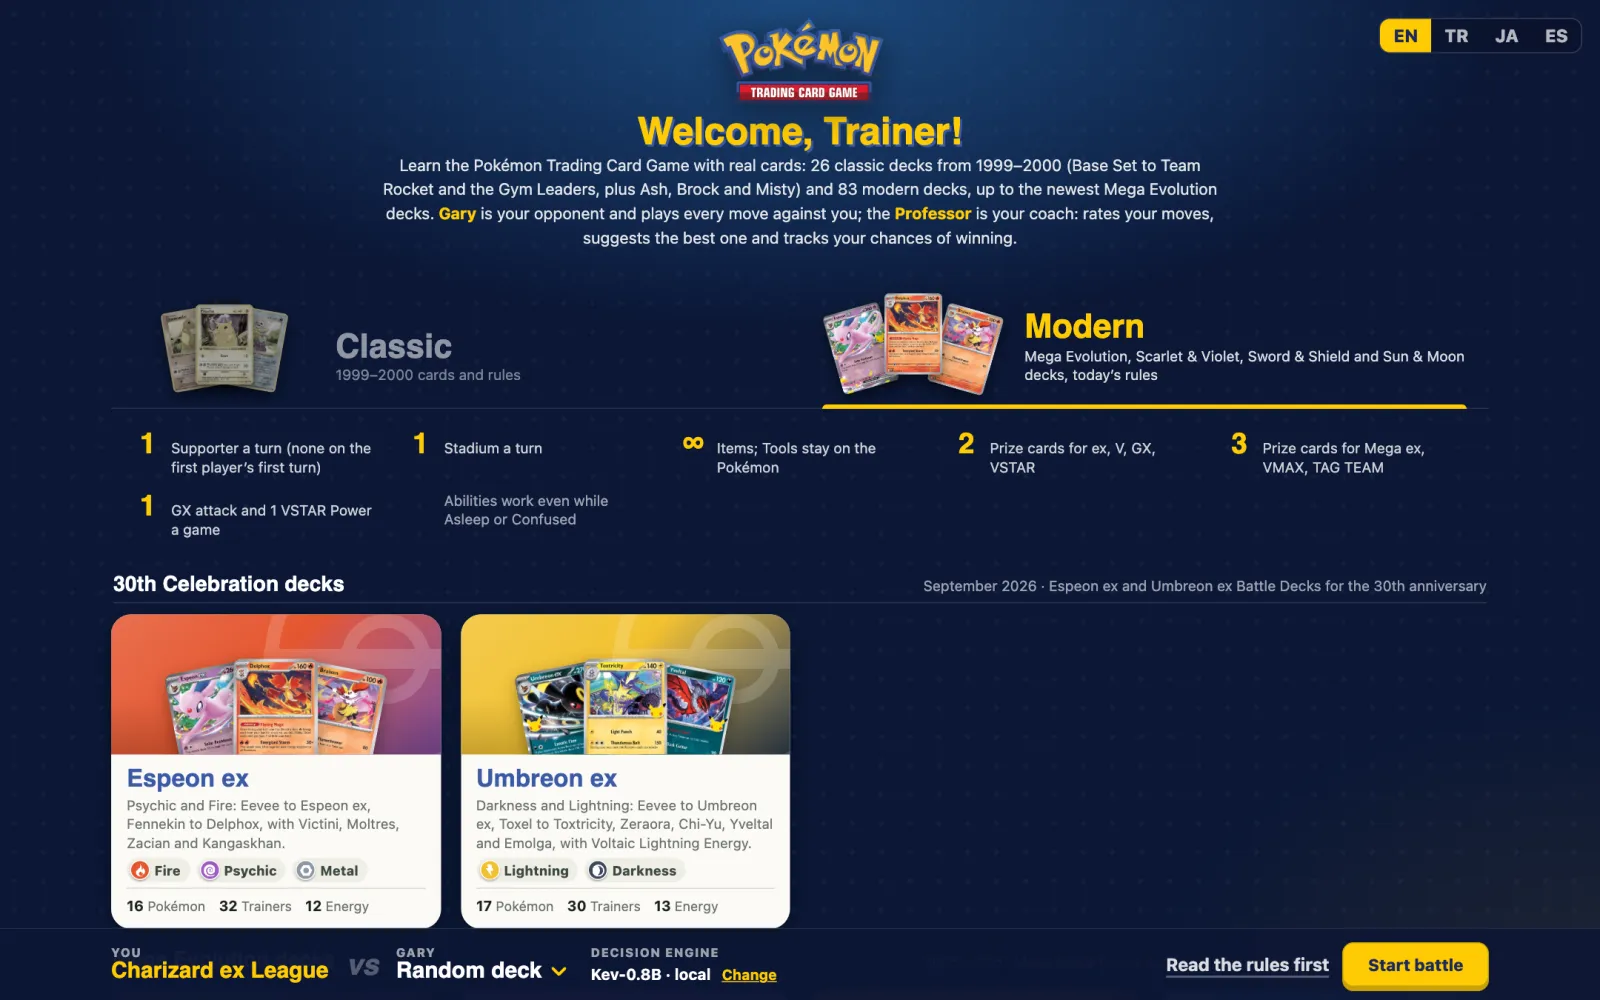
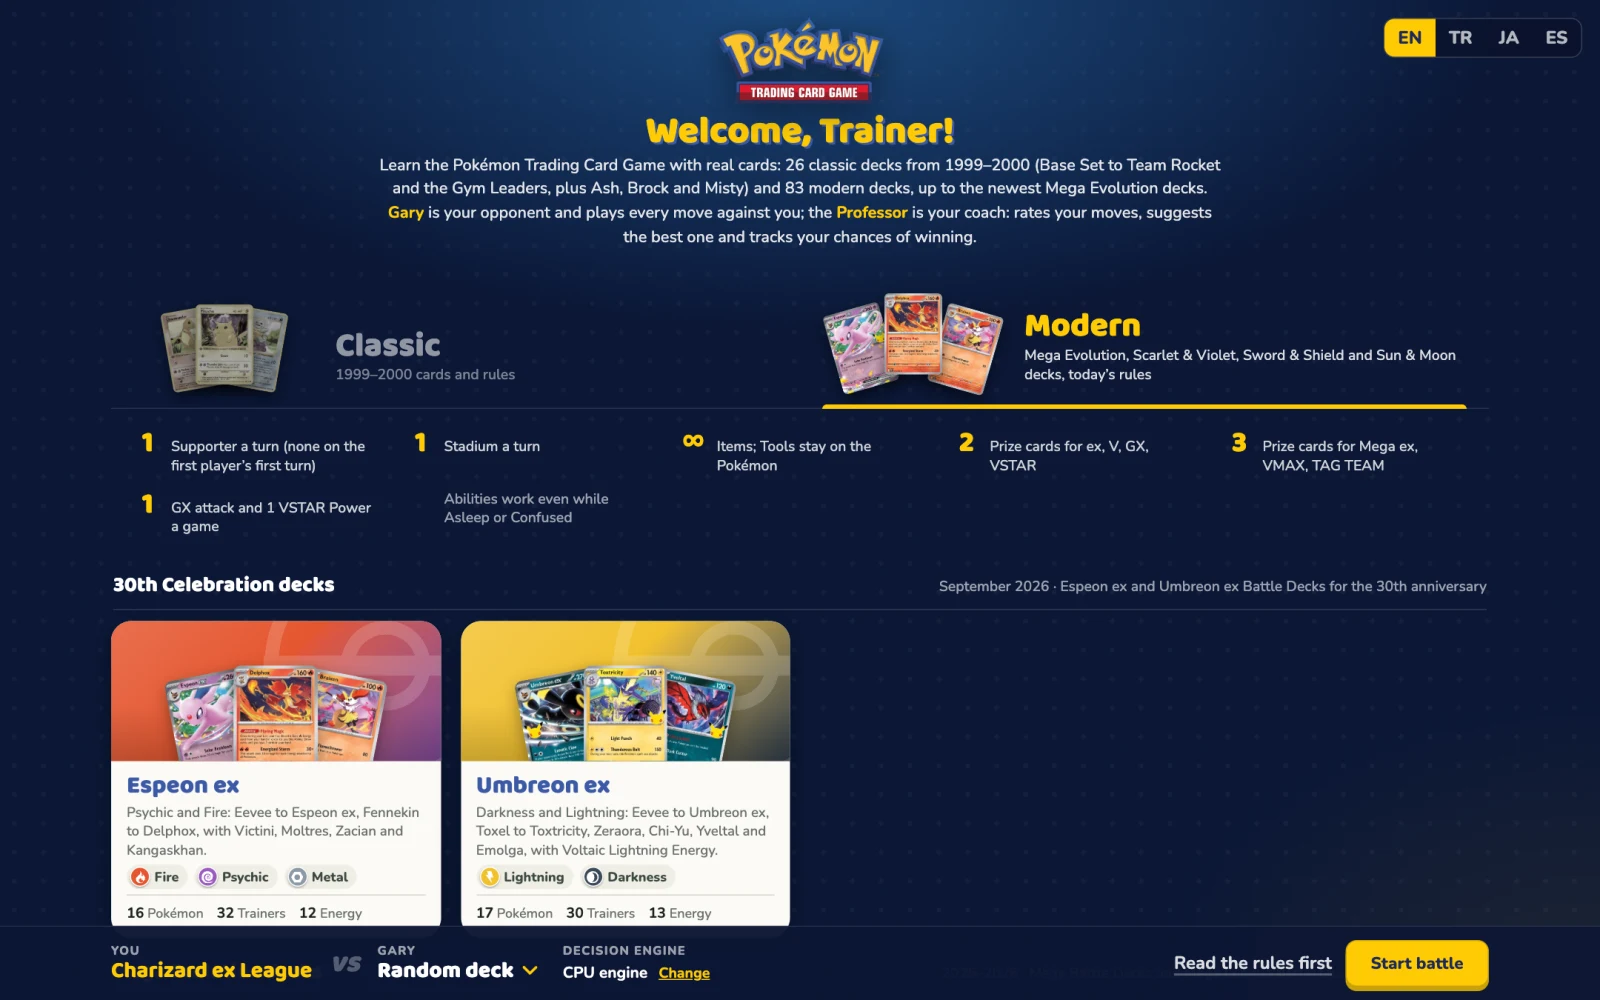
Fix fonts in the web version; clean outlined text; retake README screenshots
- server.js read every file without a known type as UTF-8 text, so the vendored .woff2 fonts arrived corrupted
  and browsers fell back to system fonts. Static files are now sent as raw bytes with their types.
- Outlined Baloo 2 text (attack names, damage numbers, stamps) showed lines inside the letters ("Be!!ow"):
  the stroke is now painted under the fill, at twice the width.
- New README screenshots with the game's fonts, each checked by an independent review; alt texts match them.

diff --git a/public/style.css b/public/style.css
@@ -352,10 +352,13 @@ aside { min-height: 0; display: flex; flex-direction: column; gap: 8px; }
 .arena-title { position: fixed; left: 50%; top: 9%; transform: translate(-50%, -20px) scale(.8); opacity: 0; transition: all .3s cubic-bezier(.3,.7,.4,1.3); background: var(--c); color: #fff; font-family: "Baloo 2", sans-serif; font-weight: 800; font-size: 30px; padding: 4px 22px; border-radius: 99px; border: 3px solid #fff; box-shadow: 0 6px 18px rgba(0,0,0,.45); text-shadow: 0 2px 2px rgba(0,0,0,.35); white-space: nowrap; }
 .arena-title.show { transform: translate(-50%, 0) scale(1); opacity: 1; }
 .burst { position: fixed; z-index: 31; width: 160px; height: 160px; border-radius: 50%; pointer-events: none; background: radial-gradient(circle, #fff 0 12%, var(--c) 30%, transparent 68%); }
-.float-dmg { position: fixed; z-index: 33; pointer-events: none; font-family: "Baloo 2", sans-serif; font-weight: 800; font-size: 46px; color: #fff; -webkit-text-stroke: 2px #b71c1c; text-shadow: 0 4px 10px rgba(0,0,0,.5); text-align: center; line-height: 1; white-space: nowrap; }
+/* Outlined Baloo 2 text (damage numbers, attack names, stamps): Baloo 2 builds letters from overlapping outlines and a
+   plain text stroke traces every one, leaving lines inside the letters. Painting the stroke under the fill hides them,
+   so each stroke is twice as wide as it looks. */
+.float-dmg { position: fixed; z-index: 33; pointer-events: none; font-family: "Baloo 2", sans-serif; font-weight: 800; font-size: 46px; color: #fff; -webkit-text-stroke: 4px #b71c1c; paint-order: stroke fill; text-shadow: 0 4px 10px rgba(0,0,0,.5); text-align: center; line-height: 1; white-space: nowrap; }
 .float-dmg small { display: block; font-size: 15px; -webkit-text-stroke: 0; background: #b71c1c; border-radius: 99px; padding: 2px 10px; margin-top: 4px; }
-.float-dmg.miss { color: #e8e8e8; -webkit-text-stroke: 2px #555; font-size: 38px; }
-.float-dmg.blocked { color: #d6ecff; -webkit-text-stroke: 2px #0e6aa8; font-size: 34px; }
+.float-dmg.miss { color: #e8e8e8; -webkit-text-stroke: 4px #555; paint-order: stroke fill; font-size: 38px; }
+.float-dmg.blocked { color: #d6ecff; -webkit-text-stroke: 4px #0e6aa8; paint-order: stroke fill; font-size: 34px; }
 .float-dmg .ic { width: .8em; height: .8em; }
 .tumble { position: fixed; z-index: 32; pointer-events: none; }
 .tumble .die { width: 40px; height: 40px; padding: 5px; box-shadow: 0 6px 12px rgba(0,0,0,.5); }
@@ -806,7 +809,7 @@ button.danger { background: #e05555; border-color: #b83b3b; color: #fff; }
 .arena.anime.cut-in .speedlines { opacity: .55; animation: speedSpin 9s linear infinite; }
 @keyframes speedSpin { to { rotate: 360deg; } }
 .arena.anime .arena-title { top: 7%; background: none; border: none; box-shadow: none; padding: 0; font-size: clamp(38px, 5.6vw, 76px); font-style: italic; letter-spacing: .02em;
-  color: #fff; -webkit-text-stroke: 3px var(--c); text-shadow: 6px 6px 0 rgba(0,0,0,.55), 0 0 30px var(--c); transform: translate(-50%, 0) skewX(-12deg) scale(2.4); opacity: 0; filter: blur(6px);
+  color: #fff; -webkit-text-stroke: 6px var(--c); paint-order: stroke fill; text-shadow: 6px 6px 0 rgba(0,0,0,.55), 0 0 30px var(--c); transform: translate(-50%, 0) skewX(-12deg) scale(2.4); opacity: 0; filter: blur(6px);
   transition: transform .28s cubic-bezier(.2,1.4,.4,1), opacity .2s, filter .25s; }
 .arena.anime .arena-title::after { content: ''; position: absolute; left: -6%; right: -6%; bottom: 8%; height: 22%; background: var(--c); z-index: -1; transform: skewX(-20deg); opacity: .85; }
 .arena.anime.cut-in .arena-title { opacity: 1; filter: none; transform: translate(-50%, 0) skewX(-12deg) scale(1); }
@@ -837,13 +840,13 @@ button.danger { background: #e05555; border-color: #b83b3b; color: #fff; }
   clip-path: polygon(50% 0, 58% 34%, 92% 12%, 68% 44%, 100% 52%, 66% 60%, 86% 92%, 54% 68%, 46% 100%, 40% 66%, 10% 88%, 32% 58%, 0 46%, 34% 40%, 12% 8%, 44% 32%); z-index: 35; }
 .afx.shock { width: 120px; height: 120px; border-radius: 50%; border: 6px solid rgba(255,255,255,.9); z-index: 35; }
 .afx.stamp { z-index: 37; font-family: "Baloo 2", sans-serif; font-weight: 800; white-space: nowrap; text-align: center; line-height: 1; }
-.afx.stamp.dmg-stamp { font-size: 64px; color: #fff; -webkit-text-stroke: 3px #b71c1c; text-shadow: 5px 5px 0 #4a0c0c, 0 0 24px rgba(255,60,60,.6); }
+.afx.stamp.dmg-stamp { font-size: 64px; color: #fff; -webkit-text-stroke: 6px #b71c1c; paint-order: stroke fill; text-shadow: 5px 5px 0 #4a0c0c, 0 0 24px rgba(255,60,60,.6); }
 .afx.stamp.dmg-stamp small { display: block; font-size: 16px; -webkit-text-stroke: 0; text-shadow: none; background: #b71c1c; border-radius: 99px; padding: 2px 10px; margin-top: 4px; }
 .afx.stamp.super { font-size: 30px; color: #1d2a5a; background: var(--yellow); border: 3px solid #1d2a5a; border-radius: 10px; padding: 4px 14px; box-shadow: 5px 5px 0 #1d2a5a; }
-.afx.stamp.miss { font-size: 54px; color: #e8e8e8; -webkit-text-stroke: 3px #3c4a5a; text-shadow: 4px 4px 0 rgba(0,0,0,.5); font-style: italic; }
-.afx.stamp.blocked { font-size: 40px; color: #d6ecff; -webkit-text-stroke: 2px #0e6aa8; text-shadow: 4px 4px 0 rgba(0,0,0,.45); }
+.afx.stamp.miss { font-size: 54px; color: #e8e8e8; -webkit-text-stroke: 6px #3c4a5a; paint-order: stroke fill; text-shadow: 4px 4px 0 rgba(0,0,0,.5); font-style: italic; }
+.afx.stamp.blocked { font-size: 40px; color: #d6ecff; -webkit-text-stroke: 4px #0e6aa8; paint-order: stroke fill; text-shadow: 4px 4px 0 rgba(0,0,0,.45); }
 .afx.stamp.blocked .ic { width: .8em; height: .8em; }
-.afx.stamp.ko-stamp { font-size: clamp(70px, 10vw, 140px); color: var(--yellow); -webkit-text-stroke: 5px #b71c1c; text-shadow: 8px 8px 0 #1d2a5a, 0 0 40px rgba(255,203,5,.7); font-style: italic; }
+.afx.stamp.ko-stamp { font-size: clamp(70px, 10vw, 140px); color: var(--yellow); -webkit-text-stroke: 10px #b71c1c; paint-order: stroke fill; text-shadow: 8px 8px 0 #1d2a5a, 0 0 40px rgba(255,203,5,.7); font-style: italic; }
 
 /* ---------- Evolution ---------- */
 .evolve-stage { position: fixed; inset: 0; z-index: 29; pointer-events: none; background: radial-gradient(ellipse at center, rgba(40,60,120,.55), rgba(3,7,20,.88) 70%); }
@@ -865,7 +868,7 @@ button.danger { background: #e05555; border-color: #b83b3b; color: #fff; }
 .ev-sparkles i { position: fixed; width: 6px; height: 6px; border-radius: 50%; background: #fff; box-shadow: 0 0 10px 3px #bfe6ff; opacity: 0; animation: sparkUp 1.4s ease-out infinite; }
 .evolve-stage:not(.glowing) .ev-sparkles i { animation-play-state: paused; }
 @keyframes sparkUp { 0% { opacity: 0; transform: translateY(20px) scale(.4); } 30% { opacity: 1; } 100% { opacity: 0; transform: translateY(-90px) scale(1.2); } }
-.afx.stamp.evolve-stamp { font-size: clamp(40px, 5vw, 64px); color: #fff; -webkit-text-stroke: 3px var(--navy); text-shadow: 5px 5px 0 #1d2a5a, 0 0 26px #9fd8ff; font-style: italic; }
+.afx.stamp.evolve-stamp { font-size: clamp(40px, 5vw, 64px); color: #fff; -webkit-text-stroke: 6px var(--navy); paint-order: stroke fill; text-shadow: 5px 5px 0 #1d2a5a, 0 0 26px #9fd8ff; font-style: italic; }
 
 /* Tumbling dice are positioned by transform each frame (see tumbleOnto()). */
 .tumble { left: 0; top: 0; will-change: transform; }
@@ -1411,3 +1414,10 @@ div.set-row { cursor: default; }
   .set-row { font-size: 14px; }
 }
 #settings .dialog.settings:focus { outline: none; }
+
+/* The hosted web version: the CPU engine only, and the way to the macOS app for Kev and Jev. */
+.eng-mac { margin: 14px 0 0; font-size: 14px; line-height: 1.55; color: rgba(255,255,255,.86); }
+a.eng-mac-link { display: inline-block; margin: 12px 0 6px; padding: 9px 18px; border-radius: 10px; border: 1px solid var(--yellow-dark);
+  background: var(--yellow); color: #1d2a5a; font-weight: 800; text-decoration: none; }
+a.eng-mac-link:hover { filter: brightness(1.06); }
+a.eng-mac-link:focus-visible { outline: 2px solid #fff; outline-offset: 2px; }

diff --git a/server.js b/server.js
@@ -190,8 +190,12 @@ async function engineState() {
 
 // ---------------------------------------------------------------- HTTP
 const PUBLIC = join(import.meta.dirname, 'public');
-const MIME = { '.html': 'text/html', '.js': 'text/javascript', '.css': 'text/css', '.json': 'application/json', '.svg': 'image/svg+xml', '.png': 'image/png', '.jpg': 'image/jpeg', '.webp': 'image/webp' };
-const BINARY = new Set(['.png', '.jpg', '.webp']);
+const MIME = {
+  '.html': 'text/html; charset=utf-8', '.js': 'text/javascript; charset=utf-8', '.css': 'text/css; charset=utf-8',
+  '.json': 'application/json; charset=utf-8', '.svg': 'image/svg+xml', '.png': 'image/png', '.jpg': 'image/jpeg',
+  '.webp': 'image/webp', '.woff2': 'font/woff2',
+};
+const CACHED = new Set(['.png', '.jpg', '.webp', '.woff2']); // card images and fonts never change once downloaded
 
 function send(res, status, body, type = 'application/json') {
   res.writeHead(status, { 'Content-Type': `${type}; charset=utf-8` });
@@ -262,12 +266,9 @@ const server = createServer(async (req, res) => {
   if (!path.startsWith(PUBLIC)) return send(res, 403, 'Forbidden', 'text/plain');
   try {
     const ext = extname(path);
-    if (BINARY.has(ext)) {
-      // Card images never change once downloaded: let the browser keep them.
-      res.writeHead(200, { 'Content-Type': MIME[ext], 'Cache-Control': 'public, max-age=604800' });
-      return res.end(await readFile(path));
-    }
-    send(res, 200, await readFile(path, 'utf8'), MIME[ext] || 'text/plain');
+    const body = await readFile(path); // bytes as they are on disk: fonts and images are binary
+    res.writeHead(200, { 'Content-Type': MIME[ext] || 'application/octet-stream', ...(CACHED.has(ext) && { 'Cache-Control': 'public, max-age=604800' }) });
+    res.end(body);
   } catch {
     send(res, 404, 'Not found', 'text/plain');
   }

diff --git a/README.md b/README.md
@@ -74,14 +74,14 @@ npm start        # → http://localhost:8787
 <table>
   <tr>
     <td width="50%"><img src="docs/screenshots/home.webp" alt="Home screen: pick Classic or Modern, a deck, and Gary's deck"><br><sub><b>Pick a deck.</b> Classic or Modern; the rules that change are listed under the tabs.</sub></td>
-    <td width="50%"><img src="docs/screenshots/card-help.webp" alt="Choosing the Active Pokémon, with a tooltip explaining Charmander's HP, Weakness and attacks"><br><sub><b>Every card explained.</b> HP, Weakness, Retreat and each attack in plain words.</sub></td>
+    <td width="50%"><img src="docs/screenshots/card-help.webp" alt="Pointing at Gary's Abra: its HP and Energy right now, Weakness, Retreat cost and what its Psyshock attack does"><br><sub><b>Every card explained.</b> Point at any card for its HP, Weakness, Retreat and attacks in plain words.</sub></td>
   </tr>
   <tr>
-    <td><img src="docs/screenshots/attack.webp" alt="Attack arena: Weedle uses Poison Sting on Charmander"><br><sub><b>Attack arena.</b> Both Active Pokémon meet in the middle of the board.</sub></td>
-    <td><img src="docs/screenshots/prize.webp" alt="A Prize card, Growlithe, revealed at the centre of the screen"><br><sub><b>Prize cards.</b> Pick one face down and it flips to reveal itself.</sub></td>
+    <td><img src="docs/screenshots/attack.webp" alt="Attack arena: Charmander uses Scratch on Meowth"><br><sub><b>Attack arena.</b> Both Active Pokémon meet in the middle of the board.</sub></td>
+    <td><img src="docs/screenshots/prize.webp" alt="A Prize card, a Fire Energy, revealed at the centre of the screen"><br><sub><b>Prize cards.</b> Pick one face down and it flips to reveal itself.</sub></td>
   </tr>
   <tr>
-    <td><img src="docs/screenshots/board-ja.webp" alt="A modern game in Japanese with the Professor's suggestions"><br><sub><b>日本語 · Modern rules.</b> Charizard ex League deck, Stadium in play.</sub></td>
+    <td><img src="docs/screenshots/board-ja.webp" alt="A modern game in Japanese with the Professor's suggestions"><br><sub><b>日本語 · Modern rules.</b> The Charizard ex League deck against an Inteleon VMAX.</sub></td>
     <td><img src="docs/screenshots/settings.webp" alt="Settings: decision engine, local models, the Professor and display options"><br><sub><b>Settings.</b> Choose Gary's engine and download local models.</sub></td>
   </tr>
 </table>
